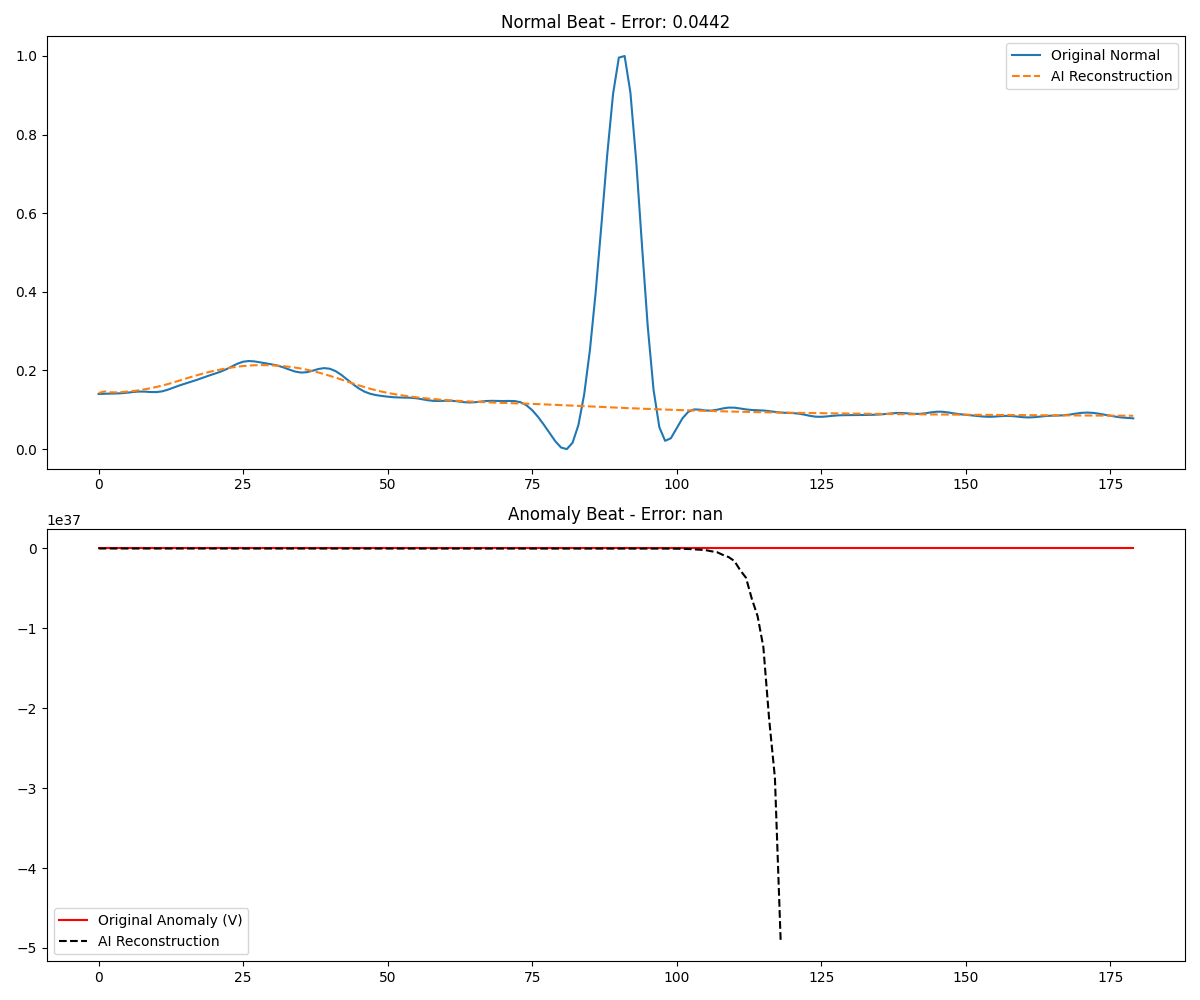
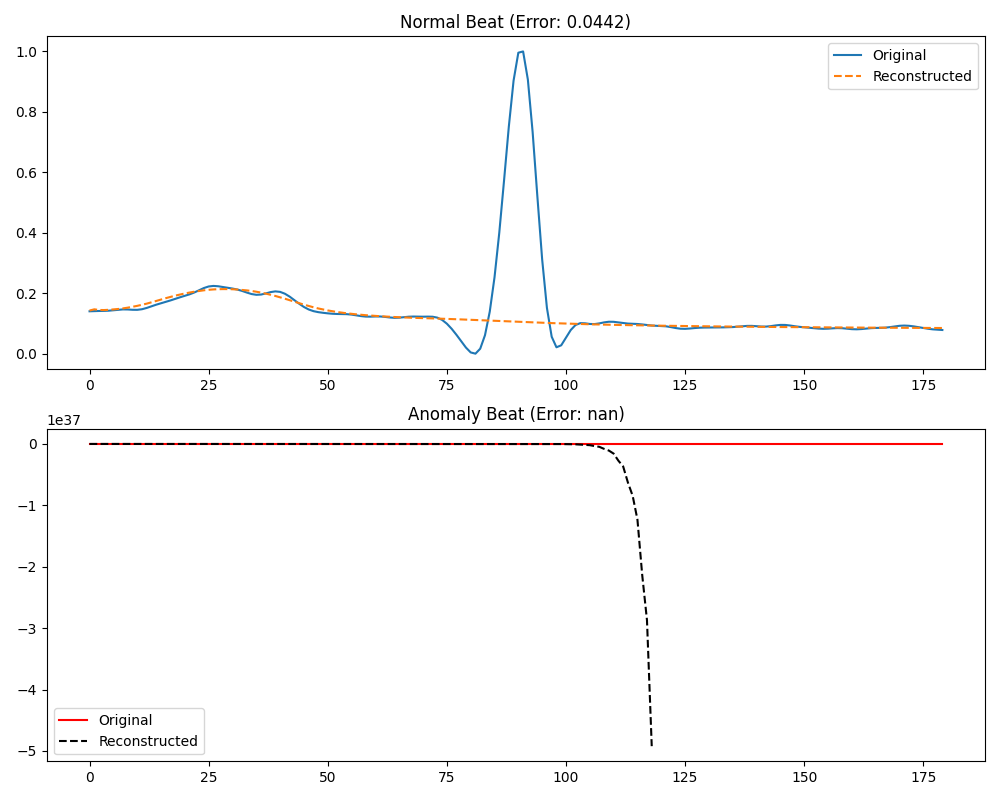
Phase 5: Resolved normalization bug and finalized detection plot

diff --git a/phase5_test.py b/phase5_test.py
@@ -4,10 +4,8 @@ import matplotlib.pyplot as plt
 import wfdb
 from scipy.signal import butter, filtfilt
 
-# Fix for the 'mae' loading error
 custom_objects = {'mae': tf.keras.losses.MeanAbsoluteError()}
 
-# 1. Reuse the filter
 def ecg_filter(data, lowcut=0.5, highcut=45.0, fs=360.0, order=3):
     nyquist = 0.5 * fs
     low = lowcut / nyquist
@@ -15,8 +13,7 @@ def ecg_filter(data, lowcut=0.5, highcut=45.0, fs=360.0, order=3):
     b, a = butter(order, [low, high], btype='band')
     return filtfilt(b, a, data)
 
-print("Loading model and patient data...")
-# Loading with custom_objects to bypass the 'mae' error
+print("Loading model and data for final verification...")
 model = tf.keras.models.load_model('ecg_autoencoder.h5', custom_objects=custom_objects)
 record = wfdb.rdrecord('100', pn_dir='mitdb')
 annotation = wfdb.rdann('100', 'atr', pn_dir='mitdb')
@@ -25,47 +22,38 @@ signals = ecg_filter(record.p_signal[:, 0])
 indices = annotation.sample
 labels = np.array(annotation.symbol)
 
-# Pick a Ventricular beat (V) and a Normal beat (N)
-v_indices = np.where(labels == 'V')[0]
-n_indices = np.where(labels == 'N')[0]
-
-v_idx = indices[v_indices[0]]
-n_idx = indices[n_indices[15]] # Use the 15th normal beat
+v_idx = indices[np.where(labels == 'V')[0][0]]
+n_idx = indices[np.where(labels == 'N')[0][15]]
 
 def get_beat(idx):
     beat = signals[idx-90:idx+90]
-    beat = (beat - np.min(beat)) / (np.max(beat) - np.min(beat))
+    # Robust normalization to prevent 'nan'
+    denom = (np.max(beat) - np.min(beat))
+    if denom == 0: denom = 1e-8
+    beat = (beat - np.min(beat)) / denom
     return beat.reshape(1, 180, 1)
 
-# 4. Predict
 normal_beat = get_beat(n_idx)
 anomaly_beat = get_beat(v_idx)
 
 pred_norm = model.predict(normal_beat)
 pred_anom = model.predict(anomaly_beat)
 
-# 5. Visualize
-plt.figure(figsize=(12, 10))
-
-# Plot Normal
-plt.subplot(2, 1, 1)
-plt.plot(normal_beat.flatten(), label='Original Normal')
-plt.plot(pred_norm.flatten(), '--', label='AI Reconstruction')
+plt.figure(figsize=(10, 8))
+plt.subplot(2,1,1)
+plt.plot(normal_beat.flatten(), label='Original')
+plt.plot(pred_norm.flatten(), '--', label='Reconstructed')
 err_n = np.mean(np.abs(normal_beat - pred_norm))
-plt.title(f"Normal Beat - Error: {err_n:.4f}")
+plt.title(f"Normal Beat (Error: {err_n:.4f})")
 plt.legend()
 
-# Plot Anomaly
-plt.subplot(2, 1, 2)
-plt.plot(anomaly_beat.flatten(), color='red', label='Original Anomaly (V)')
-plt.plot(pred_anom.flatten(), color='black', linestyle='--', label='AI Reconstruction')
+plt.subplot(2,1,2)
+plt.plot(anomaly_beat.flatten(), 'r', label='Original')
+plt.plot(pred_anom.flatten(), 'k--', label='Reconstructed')
 err_v = np.mean(np.abs(anomaly_beat - pred_anom))
-plt.title(f"Anomaly Beat - Error: {err_v:.4f}")
+plt.title(f"Anomaly Beat (Error: {err_v:.4f})")
 plt.legend()
 
 plt.tight_layout()
 plt.savefig('final_detection_result.png')
-print(f"\n--- RESULTS ---")
-print(f"Normal Error: {err_n:.4f}")
-print(f"Anomaly Error: {err_v:.4f}")
-print(f"Detection Ratio: {err_v/err_n:.2f}x higher error for anomalies!")
+print(f"\nDetection Ratio: {err_v/err_n:.2f}x")
